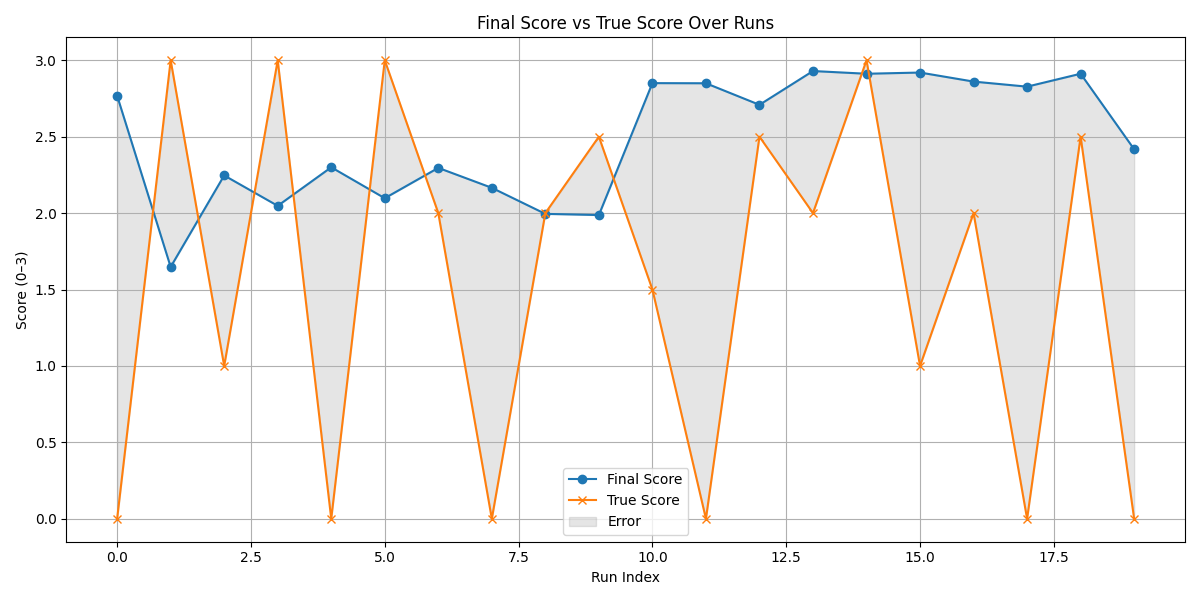
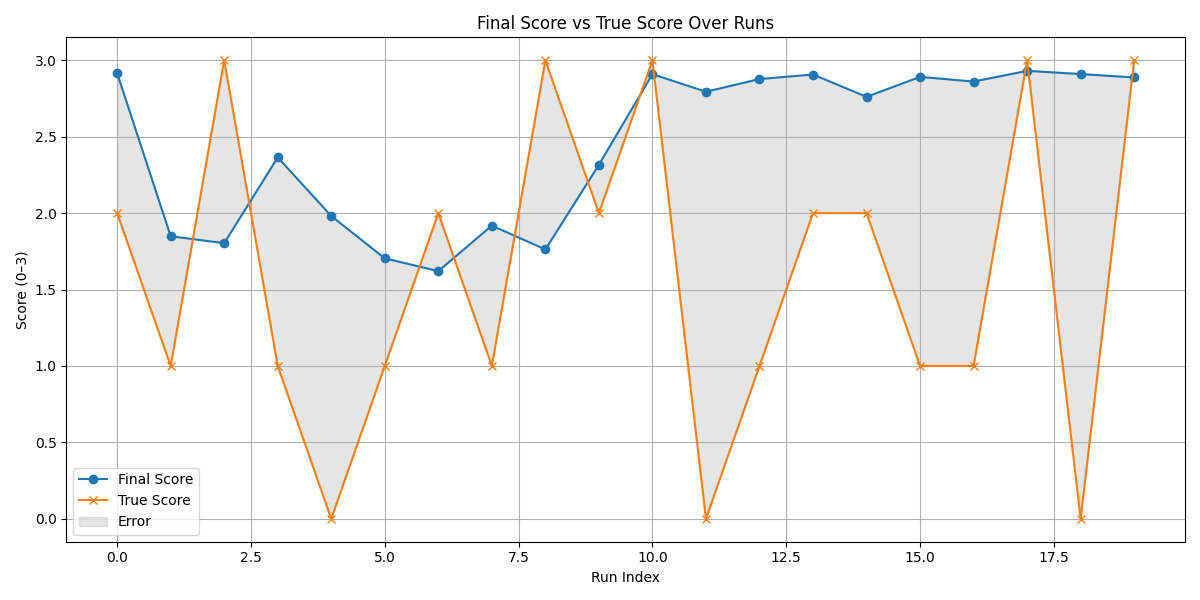
report version

Changed region(s): [[0.0617, 0.09, 0.9558, 0.9]]

diff --git a/agents/learned.py b/agents/learned.py
@@ -18,19 +18,28 @@ try:
 except:
     model = DummyModel()
 
+# def extract_features(question: str, answer: str, context: str, agent_outputs: list):
+#     features = [
+#         len(answer),
+#         len(set(answer.split())),
+#         len(context),
+#         sum([agent["score"] for agent in agent_outputs]) / len(agent_outputs),
+#     ]
+#     return np.array(features).reshape(1, -1)
+
 def extract_features(question: str, answer: str, context: str, agent_outputs: list):
-    features = [
-        len(answer),
-        len(set(answer.split())),
-        len(context),
-        sum([agent["score"] for agent in agent_outputs]) / len(agent_outputs),
-    ]
+    answer_len = len(answer) / 500  # normalize to [0, 1]
+    vocab_size = len(set(answer.split())) / 100
+    context_len = len(context) / 1000
+    avg_score = sum(agent["score"] for agent in agent_outputs) / (len(agent_outputs) * 3)  # normalize to [0, 1]
+
+    features = [answer_len, vocab_size, context_len, avg_score]
     return np.array(features).reshape(1, -1)
 
 def grade_learned(question: str, answer: str, context: str, agent_outputs: list):
     feats = extract_features(question, answer, context, agent_outputs)
     predicted = float(model.predict(feats)[0])
-    print(f"🧠 Raw learned score: {predicted}")
+    print(f" Raw learned score: {predicted}")
     return {
         "agent": "learned",
         "score": min(max(predicted, 0), 3),
@@ -59,7 +68,7 @@ def train_learned_agent(log_path="feedback/log.json"):
                 continue
 
     if len(X) < 5:
-        print("❗ Not enough training data for learned agent.")
+        print(" Not enough training data for learned agent.")
         return
 
     X = np.array(X)
@@ -71,10 +80,10 @@ def train_learned_agent(log_path="feedback/log.json"):
 
     preds = model.predict(X_test)
     mae = mean_absolute_error(y_test, preds)
-    print(f"📊 Learned agent MAE on test set: {mae:.4f}")
+    print(f" Learned agent MAE on test set: {mae:.4f}")
 
     joblib.dump(model, MODEL_PATH)
-    print(f"✅ Saved learned agent model to {MODEL_PATH}")
+    print(f" Saved learned agent model to {MODEL_PATH}")
     print("Training on targets:", y)
     print("Sample features:", X[:3])
     print("Model prediction on sample:", model.predict(X[:3]))

diff --git a/main.py b/main.py
@@ -10,7 +10,6 @@ import json
 from random import seed
 from agents.learned import grade_learned,train_learned_agent
 
-# Clean slate before every run
 for path in [
     "feedback/agent_weights.json",
     "feedback/learned_agent_model.pkl",
@@ -20,14 +19,12 @@ for path in [
     try:
         if os.path.exists(path):
             os.remove(path)
-            print(f"🗑 Deleted: {path}")
+            print(f"Deleted: {path}")
     except Exception as e:
-        print(f"⚠ Could not delete {path}: {e}")
+        print(f" Could not delete {path}: {e}")
 
-# Seed for reproducibility
 seed(42)
 
-# Load data
 all_data = pd.read_csv("data/asap-sas/train.tsv", sep="\t")
 # question_ids = all_data['EssaySet'].dropna().unique()[:2]
 # samples = []
@@ -48,7 +45,8 @@ subset = all_data[all_data['EssaySet'] == qid]
 rubric_docs = subset['EssayText'].tolist()
 samples = []
 
-# Sample 30 essays from this question
+# Sample 20 answers from the first question
+# This is to ensure we have enough data for training the learned agent
 for _ in range(20):
     row = subset.sample(1).iloc[0]
     question = f"EssaySet {qid}"
@@ -110,7 +108,7 @@ for i, (question, answer, true_score, rubric_docs) in enumerate(samples):
     agent_perf = compute_agent_performance(logs)
     weights = [agent_perf.get(a, 1.0) for a in agent_list]
     rewrite_main(weights, agent_perf)
-    print(f"✅ Graded sample {i+1}/10")
+    print(f"Graded sample {i+1}/20")
 
 from feedback.plot_performance import (
     load_update_log, load_full_logs,
@@ -121,4 +119,4 @@ try:
     plot_agent_performance(load_update_log())
     plot_final_vs_true(load_full_logs())
 except Exception as e:
-    print("⚠ Could not generate performance graphs:", e)
+    print("Could not generate performance graphs:", e)

diff --git a/feedback/plot_performance.py b/feedback/plot_performance.py
@@ -53,7 +53,7 @@ def plot_agent_performance(update_data):
     plt.grid(True)
     plt.tight_layout()
     plt.savefig("feedback/performance_plot.png")
-    print("📈 Saved agent performance graph to feedback/performance_plot.png")
+    print(" Saved agent performance graph to feedback/performance_plot.png")
 
 
 def plot_final_vs_true(log_data):
@@ -68,7 +68,7 @@ def plot_final_vs_true(log_data):
     ]
 
     if not data:
-        print("⚠ No valid entries for final vs true plot.")
+        print(" No valid entries for final vs true plot.")
         return
 
     timestamps, final_scores, true_scores = zip(*data)
@@ -85,4 +85,4 @@ def plot_final_vs_true(log_data):
     plt.grid(True)
     plt.tight_layout()
     plt.savefig("feedback/final_vs_true_plot.png")
-    print("📊 Saved final vs true score graph to feedback/final_vs_true_plot.png")
+    print(" Saved final vs true score graph to feedback/final_vs_true_plot.png")
